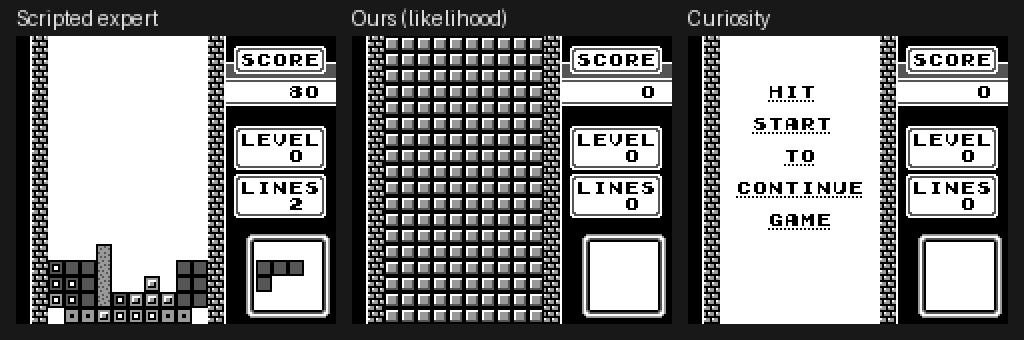
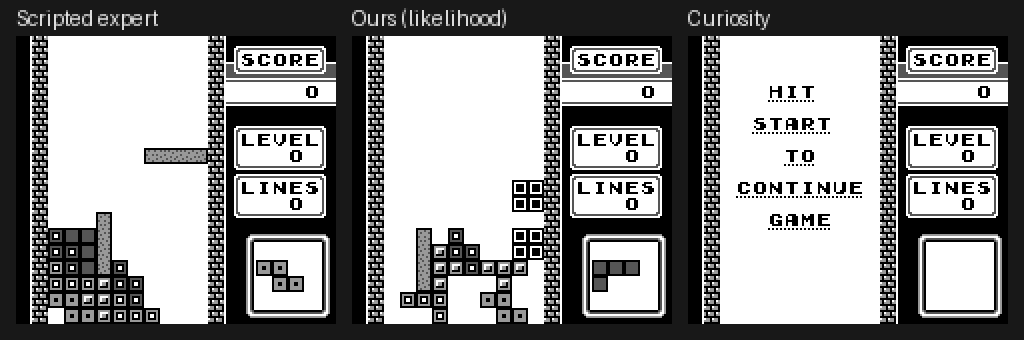
Report: use mid-game frame for Figure 2, update captions, rebuild PDF

diff --git a/notes/log.md b/notes/log.md
@@ -60,3 +60,4 @@ Entries before 2026-11-03 ~17:00 were reconstructed from the session after the h
 - **Finding from the training figure:** ours_nomask's raw log p (under its own K=297 model) collapsed from ~−40 to ~−235 at ~285k steps, with entropy falling from ~1.1 to ~0.4 at the same time. That's when it switched to ← 76%, which explains the 822-step eval episodes. Why an agent would move to a much *lower* raw likelihood is unexplained; candidates are RND domination or the running-normalization baseline (not verified).
 - **Report:** wrote REPORT.md for the professor (problem statement, work, implementation, results, discussion) + runs/fig_training.png (plot_training.py). Author line set to the GitHub handle D-VSpec; the human may want their real name.
 - **PDF:** REPORT.pdf built with pandoc + xelatex (build_pdf.sh), 10 pages. Discrepancies handled: GIF can't go in a PDF (still frame used); ≫ missing from DejaVu Serif (rendered as \gg); pandoc needs a blank line before lists (used lists_without_preceding_blankline).
+- **Figure 2 swapped** to a mid-game frame (GIF frame 180 of 333 after GIF frame-merging) at the human's request. The previous frame (step ~100) showed our agent's game-over curtain, which looks like a full grid. Captions updated in REPORT.md and build_pdf.sh.

diff --git a/REPORT.md b/REPORT.md
@@ -309,8 +309,8 @@ model, determines this behaviour.
 
 ![Expert | ours | curiosity](runs/tetris_agents.gif)
 
-*Figure 2. Same piece sequence. Left: scripted expert. Middle: our agent (drops pieces fast and tops out).
-Right: curiosity agent (paused).*
+*Figure 2. Same piece sequence. Left: scripted expert (flat, low stack). Middle: our agent (drops pieces fast,
+leaving a ragged stack full of holes; it tops out soon after). Right: curiosity agent (paused).*
 
 ---
 
